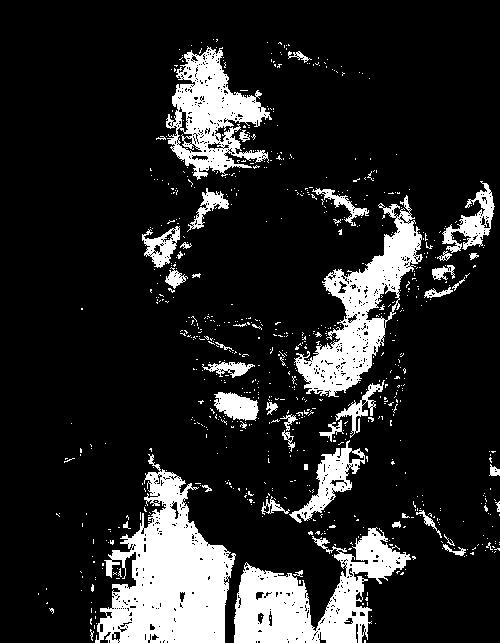
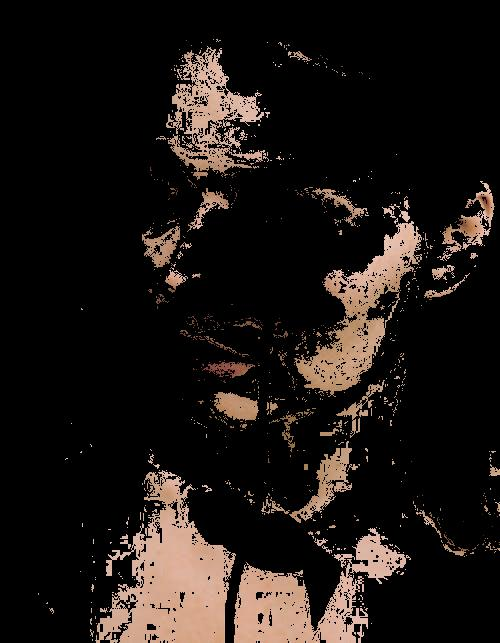
Skin Detection - added one class

diff --git a/src/skin/SkinDetectorTrainer.java b/src/skin/SkinDetectorTrainer.java
@@ -5,16 +5,17 @@ import java.awt.*;
 import java.awt.image.BufferedImage;
 import java.io.File;
 import java.io.IOException;
+import java.util.Scanner;
 
 public class SkinDetectorTrainer {
 
     int[][][] skinPixel = new int[256][256][256];
     int[][][] nonskinPixel = new int[256][256][256];
-    int skinPixelNumber=0;
-    int nonskinPixelNumber=0;
+    int skinPixelNumber = 0;
+    int nonskinPixelNumber = 0;
     double[][][] ratio = new double[256][256][256];
 
-    SkinDetectorTrainer(){
+    SkinDetectorTrainer() {
 
     }
 
@@ -25,128 +26,115 @@ public class SkinDetectorTrainer {
         BufferedImage imgI = ImageIO.read(fileI);
         for (int y = 0; y < imgI.getHeight(); y++) {
             for (int x = 0; x < imgI.getWidth(); x++) {
-                getSkinNonSkin(x,y, imgM,imgI);
+                getSkinNonSkin(x, y, imgM, imgI);
             }
         }
     }
 
 
-    void getSkinNonSkin(int width, int height, BufferedImage imgMask, BufferedImage imgImage)
-    {
-        int pixelM = imgMask.getRGB(width,height);
+    void getSkinNonSkin(int width, int height, BufferedImage imgMask, BufferedImage imgImage) {
+        int pixelM = imgMask.getRGB(width, height);
         //System.out.println("pixel " + pixelM);
-        Color color = new Color(pixelM,true);
+        Color color = new Color(pixelM, true);
         int redM = color.getRed();
         int greenM = color.getGreen();
         int blueM = color.getBlue();
 
 
-        int pixelI = imgImage.getRGB(width,height);
-        Color colorI = new Color(pixelI,true);
+        int pixelI = imgImage.getRGB(width, height);
+        Color colorI = new Color(pixelI, true);
         int redI = colorI.getRed();
         int greenI = colorI.getGreen();
         int blueI = colorI.getBlue();
 
-        if(doesShowSkin(redM,greenM,blueM))
-        {
+        if (doesShowSkin(redM, greenM, blueM)) {
             skinPixel[redI][greenI][blueI]++;
-        }
-        else
-        {
+        } else {
             nonskinPixel[redI][greenI][blueI]++;
         }
     }
 
-    boolean doesShowSkin(int R, int G, int B){
-        if(R>250 && G>250 && B>250)
-        {
-            return false;   // for database train, return true
-        }
-        else{
-            return true;
+    boolean doesShowSkin(int R, int G, int B) {
+        if (R > 250 && G > 250 && B > 250) {
+            return true;   // for database train, return true
+        } else {
+            return false;
         }
     }
 
-    void Calculate(){
-        calculateProbability(skinPixel,nonskinPixel);
+    void Calculate() {
+        calculateProbability(skinPixel, nonskinPixel);
     }
 
-    void calculateProbability(int[][][] skinPixel, int[][][] nonskinPixel){
-        for(int i=0;i<256;i++){
-            for(int j=0;j<256;j++){
-                for(int k=0;k<256;k++){
+    void calculateProbability(int[][][] skinPixel, int[][][] nonskinPixel) {
+        for (int i = 0; i < 256; i++) {
+            for (int j = 0; j < 256; j++) {
+                for (int k = 0; k < 256; k++) {
                     skinPixel[i][j][k]++;
-                    skinPixelNumber+=skinPixel[i][j][k];
+                    skinPixelNumber += skinPixel[i][j][k];
 
                     nonskinPixel[i][j][k]++;
-                    nonskinPixelNumber+=nonskinPixel[i][j][k];
+                    nonskinPixelNumber += nonskinPixel[i][j][k];
                 }
             }
         }
 
-        double probOfSkin = (double) skinPixelNumber/(skinPixelNumber+nonskinPixelNumber);
-        System.out.println("Skin & non Skin "+ skinPixelNumber+ " "+ nonskinPixelNumber);
-        System.out.println("Probability: "+ probOfSkin);
-        for(int i=0;i<256;i++){
-            for(int j=0;j<256;j++){
-                for(int k=0;k<256;k++){
-                    ratio[i][j][k] = skinPixel[i][j][k]*probOfSkin/(skinPixel[i][j][k]+nonskinPixel[i][j][k]); //naive-bayes theorem
+        double probOfSkin = (double) skinPixelNumber / (skinPixelNumber + nonskinPixelNumber);
+        System.out.println("Skin & non Skin " + skinPixelNumber + " " + nonskinPixelNumber);
+        System.out.println("Probability: " + probOfSkin);
+        for (int i = 0; i < 256; i++) {
+            for (int j = 0; j < 256; j++) {
+                for (int k = 0; k < 256; k++) {
+                    ratio[i][j][k] = skinPixel[i][j][k] * probOfSkin / (skinPixel[i][j][k] + nonskinPixel[i][j][k]); //naive-bayes theorem
                 }
             }
         }
     }
 
-    void SkinDetection(String ImageInput, String ImageName, double threshold) throws IOException {
-        File fileO = new File(ImageInput);
-        BufferedImage imgO = ImageIO.read(fileO);
-        for (int y = 0; y < imgO.getHeight(); y++) {
-            for (int x = 0; x < imgO.getWidth(); x++) {
-                editPixels(x,y,imgO, threshold);
-            }
-        }
-        ImageIO.write(imgO,"jpg",new File("src/output/"+ImageName));
-    }
-
-    void editPixels(int width, int height, BufferedImage imgMask, double threshold){
-        int pixel = imgMask.getRGB(width,height);
-        Color color = new Color(pixel);
-        int red = color.getRed();
-        int green = color.getGreen();
-        int blue = color.getBlue();
-        if(ratio[red][green][blue]>=threshold)
-        {
-            color = new Color(255,255,255); // make WHITE
-            imgMask.setRGB(width,height,color.getRGB());
-        }
-        else
-        {
-            color = new Color(0,0,0); // make BLACK
-            imgMask.setRGB(width,height,color.getRGB());
-        }
+    double[][][] getRatio() {
+        return ratio;
     }
 
     public static void main(String[] args) throws IOException {
 
-        String imagePath="src/ibtd/";
-        String name = "tom.jpg";
-        String image = "src/testImages/"+name;  //test Image path
-        String maskPath="src/ibtd/Mask/";
+        String imagePath = "src/ibtd/";
+        String name = "robert-downey.jpg";
+        String image = "src/testImages/" + name;  //test Image path
+        String maskPath = "src/ibtd/Mask/";
         SkinDetectorTrainer st = new SkinDetectorTrainer();
 
         System.out.println("Starting......");
 
-	for(int i=0;i<450;i++)
-    {
-        String maskFile= maskPath + String.format("%04d",i)+".bmp";
-        String imageFile= imagePath + String.format("%04d",i)+".jpg";
-//        String imageFile = "src/dataset/image/image ("+ i + ").jpg";       //these 2 lines for database input
-//        String maskFile = "src/dataset/mask/mask ("+ i + ").png";
-        st.Train(maskFile,imageFile);
-        System.out.println("Image Processed: " + i);	//notification
-    }
-    st.Calculate();
-    System.out.println("Machine Trained");
-    st.SkinDetection(image,name,0.15);
-    System.out.println("Image Processed");
+        System.out.println("Use dataset or ibdb? 1 or 2");
+        Scanner sc = new Scanner(System.in);
+        int data = sc.nextInt();
+
+        if (data == 1) { //dataset
+            for (int i = 1; i < 87; i++) {
+                String imageFile = "src/dataset/image/image (" + i + ").jpg";       //these 2 lines for database input
+                String maskFile = "src/dataset/mask/mask (" + i + ").png";
+                st.Train(maskFile, imageFile);
+                System.out.println("Image Processed: " + i);    //notification
+            }
+        } else {
+            for (int i = 0; i < 200; i++)  // for database, i=1; i<87
+            {
+                String maskFile = maskPath + String.format("%04d", i) + ".bmp";
+                String imageFile = imagePath + String.format("%04d", i) + ".jpg";
+                st.Train(maskFile, imageFile);
+                System.out.println("Image Processed: " + i);    //notification
+            }
+        }
+        st.Calculate();
+        System.out.println("Machine Trained");
+        System.out.println("Which Method?\n1.Black & White\t2.Skin Tone");
+        sc = new Scanner(System.in);
+        int input = sc.nextInt();
+        if (data == 1) {
+            SkinDetectorOutput sdO = new SkinDetectorOutput(image, name, st.getRatio(), 0.25, input);
+        } else {
+            SkinDetectorOutput sdO = new SkinDetectorOutput(image, name, st.getRatio(), 0.15, input);
+        }
+        System.out.println("Image Processed");
     }
 }

diff --git a/src/skin/SkinDetectorOutput.java b/src/skin/SkinDetectorOutput.java
@@ -1,0 +1,44 @@
+package skin;
+
+import javax.imageio.ImageIO;
+import java.awt.*;
+import java.awt.image.BufferedImage;
+import java.io.File;
+import java.io.IOException;
+
+public class SkinDetectorOutput {
+
+    public SkinDetectorOutput() throws IOException {
+    }
+
+    public SkinDetectorOutput(String ImageInput, String ImageName, double[][][] ratio, double threshold, int input) throws IOException {
+        File fileO = new File(ImageInput);
+        BufferedImage imgO = ImageIO.read(fileO);
+        for (int y = 0; y < imgO.getHeight(); y++) {
+            for (int x = 0; x < imgO.getWidth(); x++) {
+                editPixels(x,y,imgO,ratio, threshold,input);
+            }
+        }
+        ImageIO.write(imgO,"jpg",new File("src/output/"+ImageName));
+    }
+
+    void editPixels(int width, int height, BufferedImage imgMask,double ratio[][][], double threshold, int input){
+        int pixel = imgMask.getRGB(width,height);
+        Color color = new Color(pixel);
+        int red = color.getRed();
+        int green = color.getGreen();
+        int blue = color.getBlue();
+        if(ratio[red][green][blue]>=threshold)
+        {
+            if(input==1) {
+                color = new Color(255, 255, 255); // make WHITE
+            }
+            imgMask.setRGB(width,height,color.getRGB());
+        }
+        else
+        {
+            color = new Color(0,0,0); // make BLACK
+            imgMask.setRGB(width,height,color.getRGB());
+        }
+    }
+}
